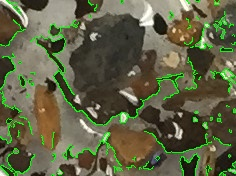
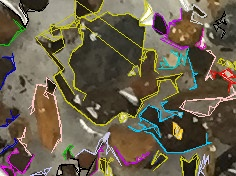
Week 6

diff --git a/obj_count.py b/obj_count.py
@@ -1,23 +1,32 @@
 import cv2
 import numpy as np
 from util import *
-
-img = cv2.imread('IMG_4465_zoom.jpg')
-
 import os
+import sys
+import random
+
+assert len(sys.argv) == 5, "Need image name, and # of iter, dist_thresh, area_thresh"
+img_name = sys.argv[1][:len(sys.argv[1])-4]
+img = cv2.imread(sys.argv[1])
+
 cwd = os.getcwd()
 #Canny Edge Detection
 binary_img = cv2.Canny(img, 100, 110)
-cv2.imwrite(cwd+'/canny_edge/IMG_4468_zoom_canny_edge.jpg', binary_img)
+cv2.imwrite(cwd+'/canny_edge/'+img_name+'_canny_edge.jpg', binary_img)
 
+#should correspond to average amount of fragmentation
+iterations = int(sys.argv[2])
+px_mm = 1818/float(140)
+#In the form (px / mm)
+# TODO This needs to be dynamic to image
 
 #ret,thresh = cv2.threshold(binary_img,127,255,0)
 #_, contours, hierarchy = cv2.findContours(thresh,cv2.RETR_TREE,cv2.CHAIN_APPROX_SIMPLE)
-_, contours, hierarchy = cv2.findContours(binary_img,cv2.RETR_TREE,cv2.CHAIN_APPROX_SIMPLE)
+_, contours, hierarchy = cv2.findContours(binary_img,cv2.RETR_EXTERNAL,cv2.CHAIN_APPROX_NONE)
 
 #RETR_TREE : retrieves all of the contours and reconstructs a full hierarchy of nested contours.
 #CHAIN_APPROX_SIMPLE : compresses horizontal, vertical, and diagonal segments and leaves only their end points.
-    #For example, an up-right rectangular contour is encoded with 4 points.
+#For example, an up-right rectangular contour is encoded with 4 points.
 
 print "Original # of Contours:",len(contours) #how many contour lines
 #print contours
@@ -29,33 +38,114 @@ print "Filtering contours for at least 4 points:",len(prunedContours)
 height, width = img.shape[:2]
 img_covered = np.zeros((height, width))
 prunedContours.sort(reverse=True, key=lambda x: xy_area(x))
-area = [xy_area(contour) for contour in prunedContours if not over_lapping(contour, img_covered)]
-area_np = np.array(area)
-area_np = reject_outliers(area_np)
-print "Min area:", min(area_np)
-print "Max area:", max(area_np)
-mean = np.mean(area_np)
-print "Mean area:",mean
-print "Median area:",np.median(area_np)
-std = np.std(area_np)
-print "STD:",std
-#Buckets
-print "10% Bucket:",len([a for a in area_np if a < max(area_np)*0.1])
-print "20% Bucket:",len([a for a in area_np if a >= max(area_np)*0.1  and a < max(area_np)*0.2])
-print "30% Bucket:",len([a for a in area_np if a >= max(area_np)*0.2  and a < max(area_np)*0.3])
-print "40% Bucket:",len([a for a in area_np if a >= max(area_np)*0.3  and a < max(area_np)*0.4])
-print "50% Bucket:",len([a for a in area_np if a >= max(area_np)*0.4  and a < max(area_np)*0.5])
-print "60% Bucket:",len([a for a in area_np if a >= max(area_np)*0.5  and a < max(area_np)*0.6])
-print "70% Bucket:",len([a for a in area_np if a >= max(area_np)*0.6  and a < max(area_np)*0.7])
-print "80% Bucket:",len([a for a in area_np if a >= max(area_np)*0.7  and a < max(area_np)*0.8])
-print "90% Bucket:",len([a for a in area_np if a >= max(area_np)*0.8  and a < max(area_np)*0.9])
-print "100% Bucket:",len([a for a in area_np if a >= max(area_np)*0.9])
+#------------------------------------------------------------------
+print "------Initial Stats------"
+median_area = stats(prunedContours, xy_area, 0, 999999)
+#---------------------------------------------------------------------
+"""print "------Throwing out areas with 10 times the median----------"
+prunedContours = [contour for contour in prunedContours if xy_area(contour) < 10*median_area]
+median_area = stats(prunedContours, xy_area, 0, 10*median_area)"""
+#-------------------------------------------------------------------------
+print "------polyContoursDP------"
+polyContours = [cv2.approxPolyDP(contour, 3, True) for contour in prunedContours]
+poly_median_area = stats(polyContours, cv2.contourArea, 0, 999999)
+polyContours.sort(reverse=True, key=lambda x: cv2.contourArea(x))
+print "Final # of polyContours:", len(polyContours)
+#-------------------------------------------------------------------------
+print "---------merging contours-----------"
+polyContours = [contour for contour in polyContours if len(contour) > 5]
+print "# of polyContours (len > 5): ", len(polyContours)
+polyContours.sort(reverse=False, key=lambda x: cv2.contourArea(x))
+"""mergedContours = []
+alreadyMerged = {}
+for i in range(0, len(polyContours)):
+    alreadyMerged[i] = []
+for i in range(0, len(polyContours)):
+    contour1 = polyContours[i]
+    for j in range(0, len(polyContours)):
+        contour2 = polyContours[j]
+        if i != j and (distance(contour1[0], contour2[0]) < 6 or distance(contour1[len(contour1)-1], contour2[0]) < 6
+         or distance(contour1[0], contour2[len(contour2)-1]) < 6 or distance(contour1[len(contour1)-1], contour2[len(contour2)-1]) < 6):
+            if j not in alreadyMerged[i]:
+                mergedContours += [np.concatenate((contour1, contour2))]
+                alreadyMerged[i] += [j]
+                alreadyMerged[j] += [i]
+    if len(alreadyMerged[i]) == 0:
+        mergedContours += [contour1]"""
+a_thresh = float(sys.argv[4])
+d_thresh = float(sys.argv[3])
+mergedContours = merging(polyContours, area_thresh=a_thresh, dist_thresh=d_thresh, px_mm=px_mm)
+for i in range(iterations):
+    print "Iteration ", i, len(mergedContours)
+    mergedContours.sort(reverse=False, key=lambda x: cv2.contourArea(x))
+    mergedContours = merging(mergedContours, area_thresh=a_thresh, dist_thresh=d_thresh, px_mm=px_mm)
+print "# of mergedContours:", len(mergedContours)
+#close contours
+merge_median_area = stats(mergedContours, cv2.contourArea, 0, 999999)
+print [cv2.contourArea(contour) for contour in mergedContours]
+print "Final # of mergedContours:", len(mergedContours)
+#-------------------------------------------------------------------------
+print "---------final-----------"
+#print cv2.minAreaRect(mergedContours[40])
+for i in range(0, len(mergedContours)):
+    tmp_img = cv2.imread(sys.argv[1])
+    cv2.drawContours(tmp_img, mergedContours, i, (0,255,0), 1)
+    cv2.imwrite(cwd+'/contour_overlay/'+str(i)+'_contour.jpg', tmp_img)
 
-#prune for only in the center 2 std
-img_covered = np.zeros((height, width))
-prunedContours = [contour for contour in prunedContours if xy_area(contour) > mean-std and not over_lapping(contour, img_covered)]
-print "Final # of contours:", len(prunedContours)
+#area_thresh=200, dist_thresh=50, use xy_area for merging area diff
+"""x = 11
+y = 28
+print "center dist",x, y, distance(centroid(mergedContours[x]), centroid(mergedContours[y]))
+contour1_ellipse = cv2.fitEllipse(mergedContours[x])
+contour2_ellipse = cv2.fitEllipse(mergedContours[y])
+print "cross_dist", max(5*px_mm, contour1_ellipse[1][0]+contour1_ellipse[1][1], contour2_ellipse[1][0]+contour2_ellipse[1][1])
 
-cv2.drawContours(img, prunedContours, -1, (0,255,0), 1)
+print "areas", cv2.contourArea(mergedContours[x]), cv2.contourArea(mergedContours[y])
+temp_contour = np.concatenate((mergedContours[x], mergedContours[y]))
+hull = cv2.convexHull(temp_contour)
+print "xy_area = ", xy_area(hull)
+print "cv2.contourArea = ", cv2.contourArea(hull)
+tmp_img = cv2.imread(sys.argv[1])
+cv2.drawContours(tmp_img, np.array([hull]), -1, (0, 255,0), 1)
+cv2.imwrite(cwd+'/contour_overlay/test_contour.jpg', tmp_img)
 
-cv2.imwrite(cwd+'/contour_overlay/IMG_4465_zoom_contour.jpg', img)
+hull_rect = cv2.minAreaRect(hull)
+print "rotated rectangle area = ", hull_rect[1][0] * hull_rect[1][1]
+rect = cv2.boxPoints(hull_rect)
+box = np.int0(rect)
+tmp_img = cv2.imread(sys.argv[1])
+cv2.drawContours(tmp_img, [box], -1, (0, 255,0), 1)
+cv2.imwrite(cwd+'/contour_overlay/test_rect_contour.jpg', tmp_img)
+
+(x, y), radius = cv2.minEnclosingCircle(hull)
+center = (int(x), int(y))
+radius = int(radius)
+print "minEnclosingCircle area = ", 3.14*(radius ** 2)
+tmp_img = cv2.imread(sys.argv[1])
+cv2.circle(tmp_img,center,radius,(0,255,0),1)
+cv2.imwrite(cwd+'/contour_overlay/test_circ_contour.jpg', tmp_img)
+
+ellipse = cv2.fitEllipse(hull)
+print "fitEllipse area = ", 3.14*(ellipse[1][0]/2)*(ellipse[1][1]/2)
+tmp_img = cv2.imread(sys.argv[1])
+cv2.ellipse(tmp_img, ellipse,(0,255,0),1)
+cv2.imwrite(cwd+'/contour_overlay/test_ellipse_contour.jpg', tmp_img)"""
+
+for i in range(0, len(mergedContours)):
+    rr, rg, rb = random.random(), random.random(), random.random()
+    r, g, b = 0,0,0
+    if rr > 0.66:
+        r = 255
+    elif rr > 0.33:
+        r = 200
+    if rg > 0.66:
+        g = 200
+    elif rg > 0.33:
+        g = 200
+    if rb > 0.66:
+        b = 255
+    elif rb > 0.33:
+        b = 200
+    cv2.drawContours(img, mergedContours, i, (r,g,b), 1)
+
+cv2.imwrite(cwd+'/contour_overlay/'+img_name+'_contour.jpg', img)

diff --git a/util.py b/util.py
@@ -1,5 +1,6 @@
 ### Functions used for obj_count.py
 import numpy as np
+import cv2
 
 def xy_area(points):
     #rectangular area
@@ -10,6 +11,14 @@ def xy_area(points):
     l_i = min(x)
     w_i = min(y)
     return (l_f - l_i)*(w_f - w_i)
+
+def max_xy(points):
+    x = [point.item(0) for point in points]
+    y = [point.item(1) for point in points]
+    return max(x), max(y)
+
+def distance(pt1, pt2):
+    return ((pt1[0][0]-pt2[0][0]) ** 2 + (pt1[0][1]-pt2[0][1]) ** 2)**0.5
 
 def over_lapping(points, img_covered):
     x = [point.item(0) for point in points]
@@ -28,3 +37,69 @@ def over_lapping(points, img_covered):
 
 def reject_outliers(data, m=2):
     return data[abs(data - np.mean(data)) < m * np.std(data)]
+
+def stats(contours, area, bot_thresh, top_thresh):
+    """contours = list of contours, area = area function to eval contours,
+        bot_thresh = lower threshold value, top_thresh = upper threshold value"""
+    area = [area(contour) for contour in contours if area(contour) > bot_thresh and area(contour) < top_thresh]
+    area_np = np.array(area)
+    area_np = reject_outliers(area_np)
+    print "Min area:", min(area_np)
+    print "Max area:", max(area_np)
+    mean = np.mean(area_np)
+    print "Mean area:",mean
+    print "Median area:",np.median(area_np)
+    std = np.std(area_np)
+    print "STD:",std
+    return np.median(area_np)
+    #Buckets
+    """print "10% Bucket:",len([a for a in area_np if a < max(area_np)*0.1])
+    print "20% Bucket:",len([a for a in area_np if a >= max(area_np)*0.1  and a < max(area_np)*0.2])
+    print "30% Bucket:",len([a for a in area_np if a >= max(area_np)*0.2  and a < max(area_np)*0.3])
+    print "40% Bucket:",len([a for a in area_np if a >= max(area_np)*0.3  and a < max(area_np)*0.4])
+    print "50% Bucket:",len([a for a in area_np if a >= max(area_np)*0.4  and a < max(area_np)*0.5])
+    print "60% Bucket:",len([a for a in area_np if a >= max(area_np)*0.5  and a < max(area_np)*0.6])
+    print "70% Bucket:",len([a for a in area_np if a >= max(area_np)*0.6  and a < max(area_np)*0.7])
+    print "80% Bucket:",len([a for a in area_np if a >= max(area_np)*0.7  and a < max(area_np)*0.8])
+    print "90% Bucket:",len([a for a in area_np if a >= max(area_np)*0.8  and a < max(area_np)*0.9])
+    print "100% Bucket:",len([a for a in area_np if a >= max(area_np)*0.9])"""
+
+def merging(contours, area_thresh, dist_thresh, px_mm):
+    mergedContours = []
+    alreadyMerged = {}
+    #Initialize alreadMerged
+    for i in range(0, len(contours)):
+        alreadyMerged[i] = False
+    for i in range(0, len(contours)):
+        contour1 = contours[i]
+        for j in range(0, len(contours)):
+            contour2 = contours[j]
+            temp_contour = np.concatenate((contour1, contour2))
+            hull = cv2.convexHull(temp_contour)
+            #Need at least 4 points in the hull to compute ellipse
+            if i != j and not alreadyMerged[i] and not alreadyMerged[j] and \
+            len(contour1) > 4 and len(contour2) > 4 and len(hull) > 4:
+                ellipse = cv2.fitEllipse(hull)
+                contour1_ellipse = cv2.fitEllipse(contour1)
+                contour2_ellipse = cv2.fitEllipse(contour2)
+                hull_ellipse_area = ellipse_area(ellipse)
+                cross_dist = max(dist_thresh*px_mm, contour1_ellipse[1][0]+contour1_ellipse[1][1], contour2_ellipse[1][0]+contour2_ellipse[1][1])
+                if distance(centroid(contour1), centroid(contour2)) < cross_dist  \
+                  and abs(hull_ellipse_area - cv2.contourArea(hull))/hull_ellipse_area < area_thresh:
+                    mergedContours += [temp_contour]
+                    alreadyMerged[i] = True
+                    alreadyMerged[j] = True
+                    print i, j
+    for i in range(0, len(contours)):
+        if not alreadyMerged[i]:
+            mergedContours += [contours[i]]
+    return mergedContours
+
+def centroid(contour):
+    M = cv2.moments(contour)
+    center = [[M['m10']/M['m00'], M['m01']/M['m00']]]
+    #print center
+    return center
+
+def ellipse_area(ellipse):
+    return 3.14*(ellipse[1][0]/2)*(ellipse[1][1]/2)
